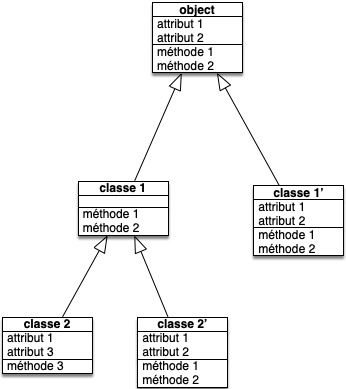
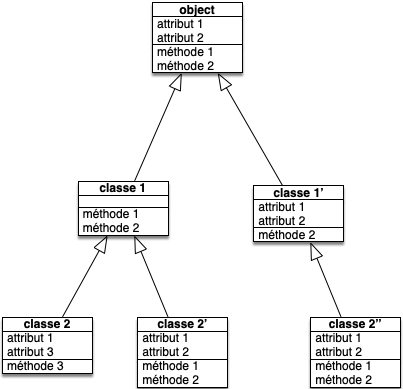
cours heritage

diff --git a/docs/cours/developpement/programmation-objet/heritage.md b/docs/cours/developpement/programmation-objet/heritage.md
@@ -22,42 +22,65 @@ Dans la figure précédente :
 * la classe **1** est la *classe mère* de la classe **2**
 * la classe **2** est une *classe fille* de la classe **1**
 
-La désignation UML de l'héritage est une 
+La figure montre également la désignation UML de l'héritage : une flèche avec un triangle vide.
+
+### utilisation de l'héritage
 
 L'héritage permet d'utiliser les attributs et méthodes créées dans les classes mères de façon simple :
 
 1. soit en cherchant dans la hiérarchie des classes l'attribut ou l'objet appelé depuis une classe fille
 2. soit en appelant directement un attribut ou un objet de la classe mère.
 
-### chercher dans la hiérarchie
+#### chercher dans la hiérarchie
 
-Supposons que j'ai un objet de la classe
-objet de classe 3 qui appelle méthode 1
+Supposons que j'ai un objet de la "classe 2" `o` qui veut appeler la méthode 1 : `o.methode1()`
 
-### appeler directement
+1. on va chercher `methode1` dans l'espace de nom de `o` : il n'y est pas.
+2. on va alors chercher dans sa classe, `classe2` : elle ne définit pas `méthode1`
+3. on cherche alors dans la classe mère de classe 2, `classe1` : `méthode1` est définie, on utilise son code.
+
+> si l'on arrive jusqu'à la classe `object` et qu'elle ne contient pas le nom recherché une erreur est lancée.
+
+#### appeler directement
+
+Supposons que dans la définition de `méthode1` de la classe `2'` on particulariser la méthode `méthode1` de la `classe1`. On appelle alors la méthode `méthode1` de la classe 1 dans la définition de la `méthode1` de la classe `2'`.
+
+>si l'on ne retrouve pas la méthode dans la classe mère, on remonte la hiérarchie. De là tenter d'utiliser la méthode `méthode1`  de la classe `1'` en définissant la  méthode `méthode1`  de la classe `2''` va en fait exécuter la méthode  méthode `méthode1`  de la classe `object`
 
 méthode 1 de classe 1 qui appelle méthode 1 de object
 
-
 ### connaitre la hiérarchie
 
+En python, si l'on veut connaitre l'ordre dans lequel les classes vont être examinée lors de la remontée de la hiérarchie, on peut utiliser la méthode `mro()` des classes. Cette méthode regarde l'attribut `__mro__`.
 
-__mro__
+Par exemple, dans un interpréteur :
 
-mais pas les attribut. DOnc attentoin à ne pas écraser des attributs des classes mères.
+```python
+>>> str.mro()
+[<class 'str'>, <class 'object'>]
+>>> str.__mro__
+(<class 'str'>, <class 'object'>)
+>>> 
+```
 
-(en python __var n'est pas passé à la classe fille. Mas son utilisation est rare.)
+L'ordre dans lequel est examinée les classe pour les chaines de caractères est donc : d'abord la classe `str` puis la classe `object`
+
+> La classe object est toujours le dernier élément de la liste
+
 ### quand utiliser l'héritage
 
-vs composition et agrégation
+La composition et l'agrégation permettent de factoriser des fonctionnalités alors que l'héritage factorise du code. On va donc toujours favoriser la composition à l'héritage si c'est possible.
 
-particuliariser une casse générale : dans les bibliothèques : ils donnent une classe t nous on la particularise (GUI)
+Il y a cependant des cas où l'héritage est très utile :
 
+* lorsque l'on veut spécifier une classe (un cas particulier)
+* lors de l'utilisation de bibliothèques
 
-- code en commun
-- dans une bibliothèque
+La règle est que lorsque l'héritage doit re-écrire toutes les méthodes de sa classe mère pour qu'il n'y ait pas de conflit, alors il faut changer d'approche. Une classe et sa classe mère doivent partager beaucoup de méthodes (ou que les méthodes soient des cas particuliers)
 
 ### héritage multiple
+
+Python autorise l'[héritage multiple](https://docs.python.org/fr/3/tutorial/classes.html#multiple-inheritance)
 
 Règle du diamant en python mais, sans une très bonne raison, **il ne faut pas l'utiliser** dans nos propre programme, car ça le rend trop confus.
 
@@ -100,6 +123,8 @@ L'UML complet donne donc :
 
 > TBD
 > ajouter appelle à __str__ comme recherche pure d'une classe dans la hiérarchie
+> ajouter cercle inscrit. en paramètre
+
 
 ### Exercice 2
 
